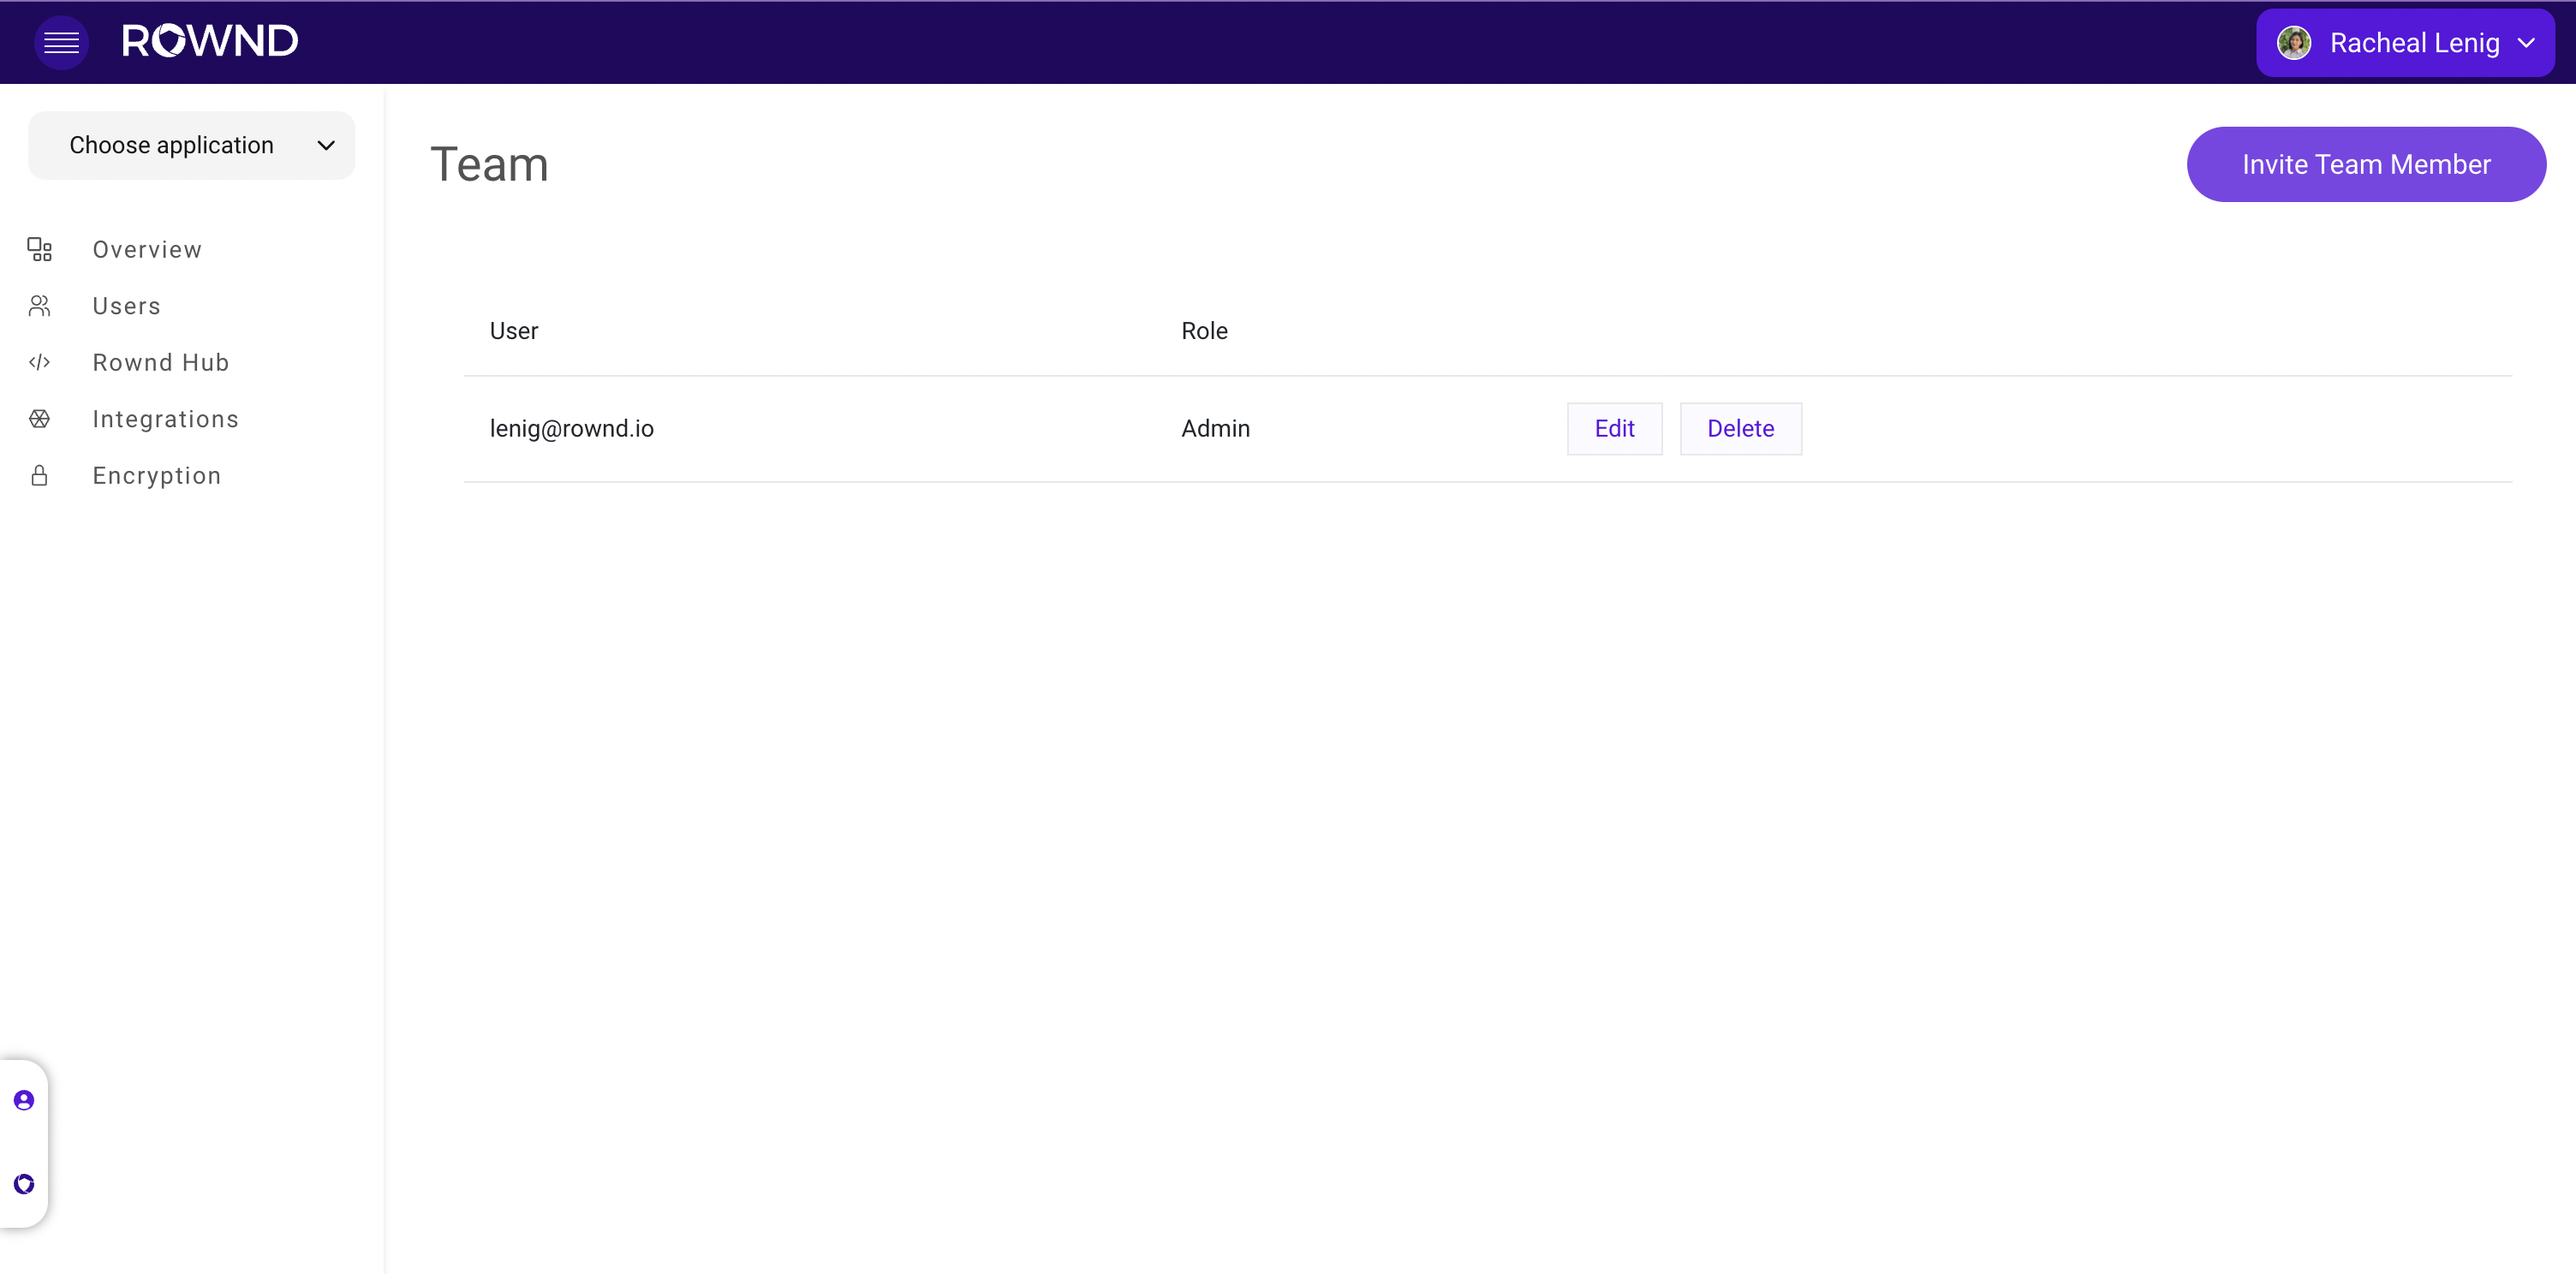
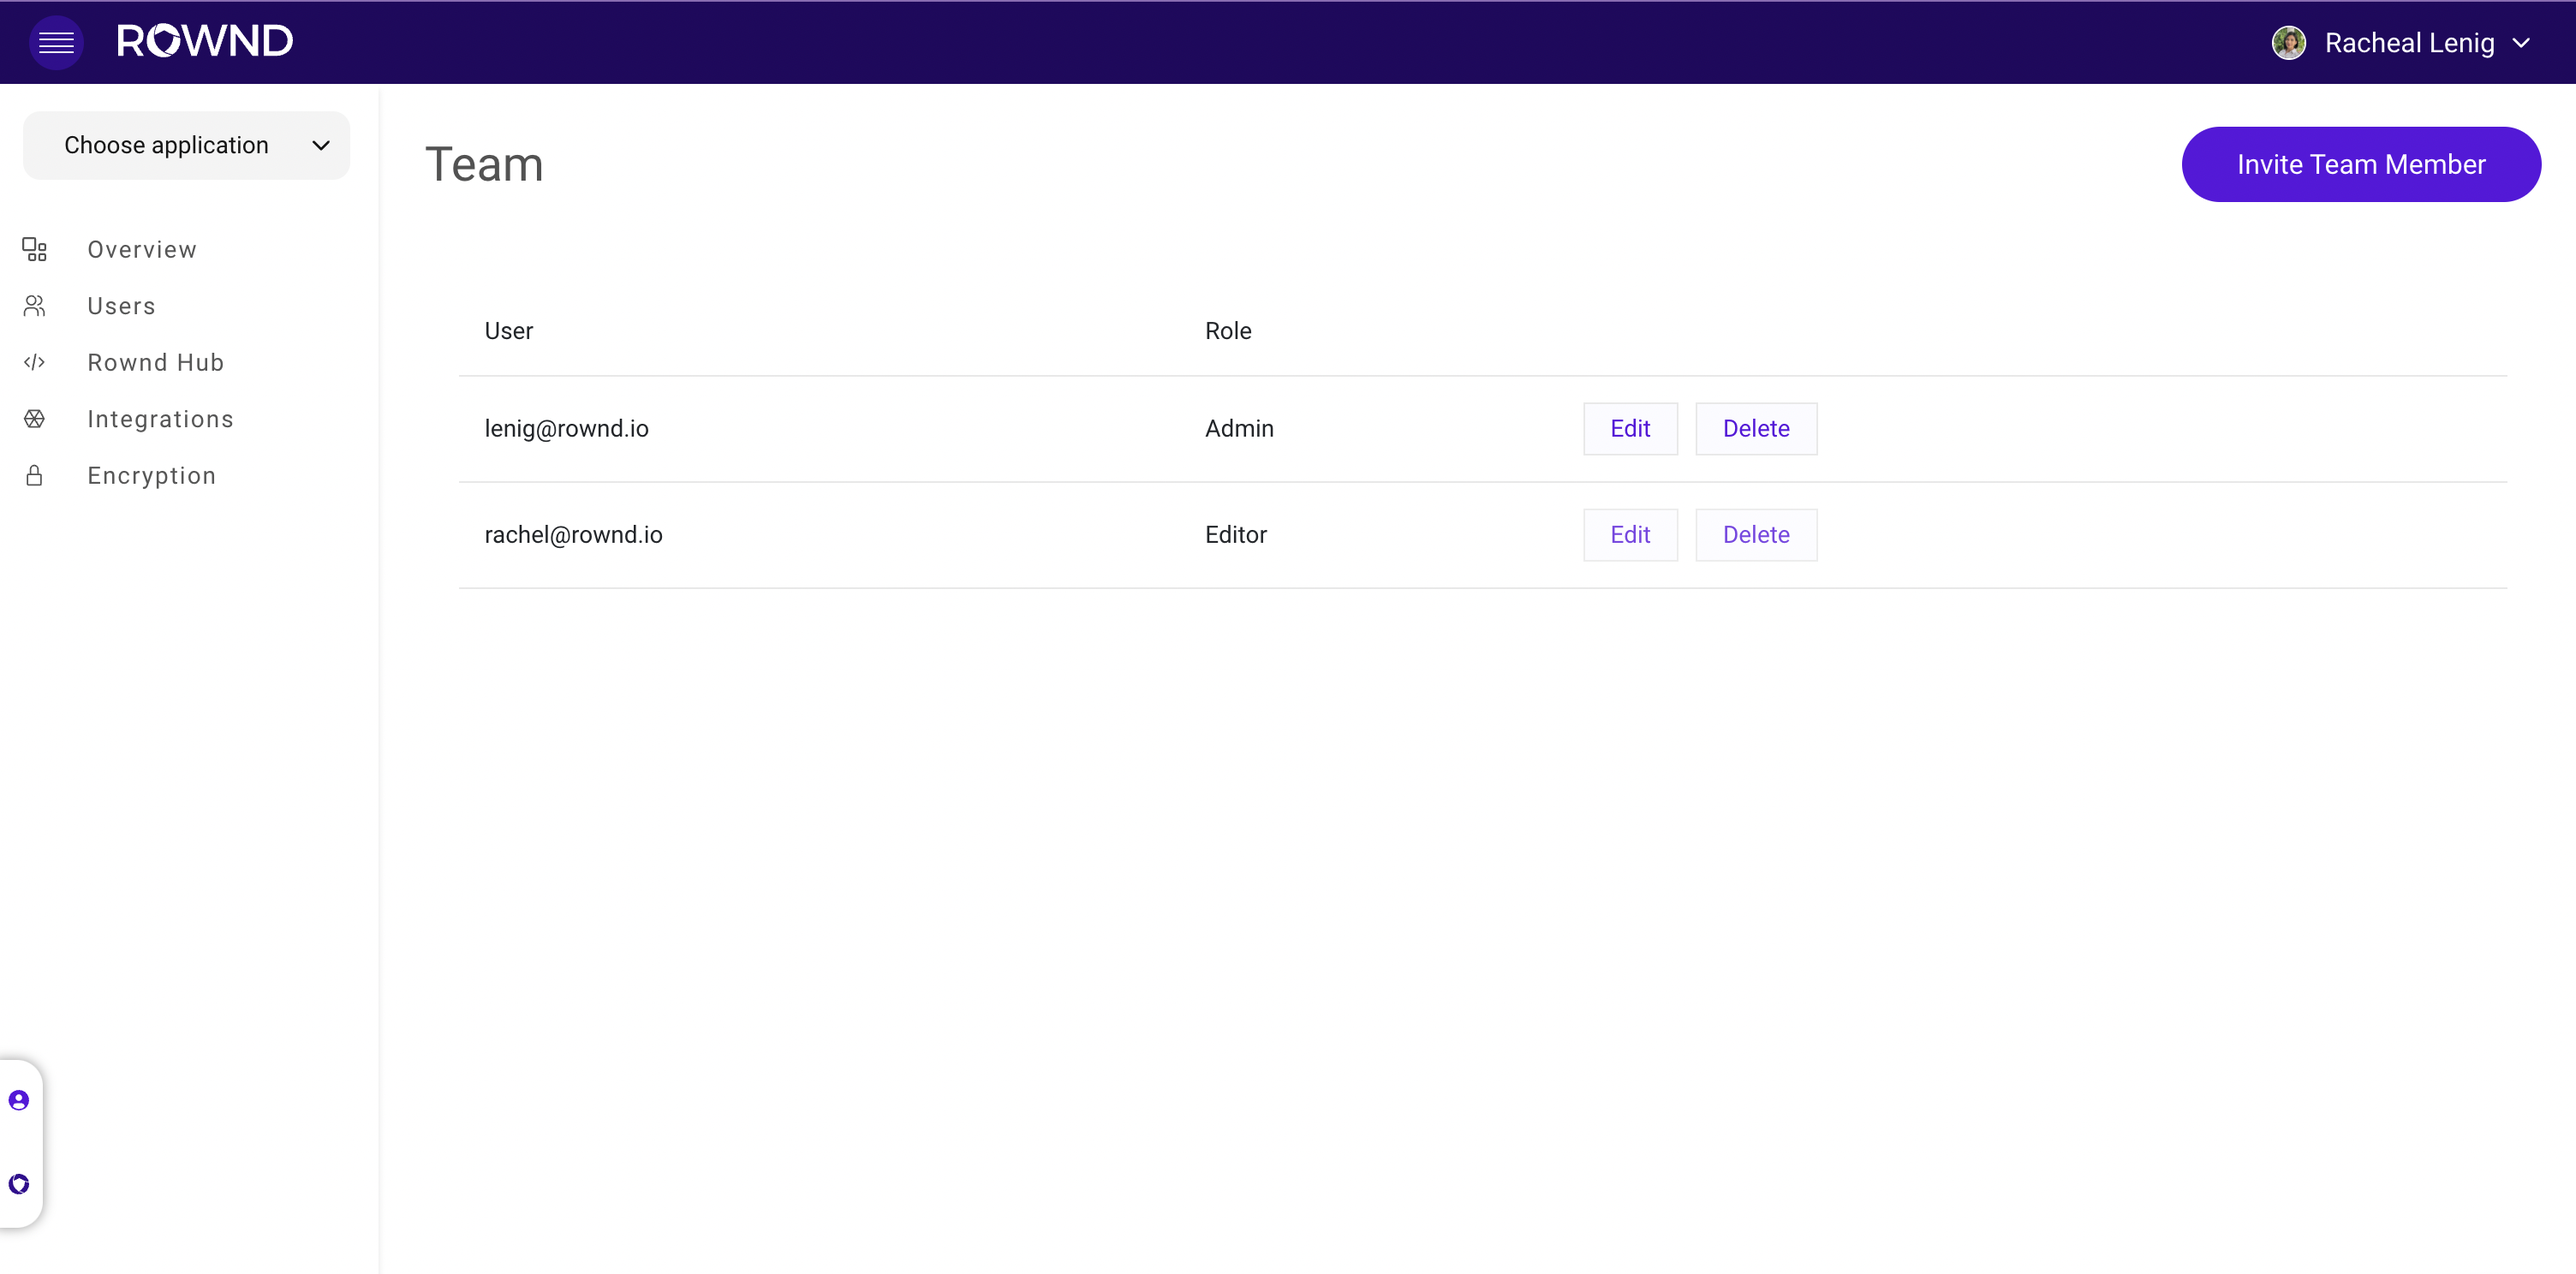
GitBook: [#38] Added "Create app key" and a section called "getting started"

diff --git a/guides/configuration/app-credentials.md b/guides/configuration/app-credentials.md
@@ -1,0 +1,45 @@
+---
+description: Create a new app key for your snippet or SDK or to leverage the Rownd API.
+---
+
+# App credentials
+
+When your code interacts with Rownd through an SDK, Javascript code snippet, or directly to our REST API, you'll need a set of credentials to authenticate your access to the Rownd platform. At Rownd, we call these "app keys" and "app secrets." Every application creates a default app key, but you can create as many additional keys as you want.
+
+The app key is a _publishable_ value, meaning it isn't intended to be private. You'll use an app key in all of your user-facing code, such as React or Vue apps, websites, mobile apps, etc.
+
+Each app key has an associated app secret that will be visible to you only once. App secrets are _private_ values, meaning you should limit the number of people who have access to them. You should also use care to ensure they are not included in publicly visible configuration files, mobile app binaries, website deployments, etc. They should exist only within your backend server environments.
+
+You can revoke an app key and its associated secret at any time through the Rownd dashboard. Be careful, though! Revoking a key that's still in use will likely result in downtime for your app. Ensure you generate new app keys and update your deployments with them before revoking existing keys.
+
+#### What's the difference?
+
+**App keys** help identify your application, enable the retrieval of certain application metadata, and initiate authentication from web or mobile.
+
+**App secrets** authenticate machine-to-machine communication with Rownd to retrieve and update any user profile, generate sign-in (magic) links for any user, and support other more sensitive/restricted functions.
+
+### Working with app keys
+
+From the Rownd dashboard, select the application for which you want to generate an app key, then select **Overview** from the side nav and click on **App keys** from the sub nav.
+
+![App keys are located in the overview section](<../../.gitbook/assets/image (7).png>)
+
+### Creating a new app key
+
+Click on the "Add app key" button on the right side of the screen. A new app key and secret are generated, then the **Edit app key** dialog is displayed, which contains the name of the app key, the key itself, and its associated secret.
+
+![The edit app key dialog](../../.gitbook/assets/image.png)
+
+{% hint style="warning" %}
+Be sure to copy and store the app secret in a safe location, since it will be shown only once! Opening the "edit app key" dialog again will show a masked version of the secret.
+{% endhint %}
+
+You can rename the app key to something that makes sense to you, then press **update** to save it.
+
+### Updating and deleting/revoking app keys
+
+If you want to delete or edit your app key, click on the three dots beneath the **action** column on the right side of the app keys table.
+
+![The app keys table showing edit and delete options](<../../.gitbook/assets/image (14).png>)
+
+From the resulting menu, select **edit** to modify the name of the key (the key and secrets are immutable). Select **delete** to permanently revoke the key. It will no longer work.

diff --git a/guides/administration/teams.md b/guides/administration/teams.md
@@ -8,11 +8,11 @@ description: Give team members access to co-manage aspects of your Rownd account
 
 First, sign into your Rownd account, click on the dropdown menu on the top right and select **Manage team**.
 
-![](<../../.gitbook/assets/image (17).png>)
+![](<../../.gitbook/assets/image (20).png>)
 
 On the **Team** page, click I**nvite team member**.&#x20;
 
-![](<../../.gitbook/assets/image (6).png>)
+![](<../../.gitbook/assets/image (11).png>)
 
 Enter the new team member's **email** **address** and choose the **level of access** to grant. There are three different **permission** levels:
 
@@ -20,36 +20,36 @@ Enter the new team member's **email** **address** and choose the **level of acce
 * **Admin:** Full account control over apps, team members, billing, etc.
 * **View-only:** Can view most aspects of the platform but cannot make any changes.
 
-![](<../../.gitbook/assets/image (8).png>)
+![](<../../.gitbook/assets/image (15).png>)
 
 Click **Save** to send the invitation. Your team member will receive an email containing a link that will automatically sign them into Rownd and prompt them to accept or decline the invitation to join your account.
 
-![](<../../.gitbook/assets/image (4).png>)
+![](<../../.gitbook/assets/image (25).png>)
 
 Once the invitation is sent, the new team member will show as **pending** until they've accepted the invitation.&#x20;
 
-![](<../../.gitbook/assets/image (16).png>)
+![](<../../.gitbook/assets/image (28).png>)
 
 Once they've accepted the invitation, the pending status will be removed.
 
-![](<../../.gitbook/assets/image (9).png>)
+![](<../../.gitbook/assets/image (1).png>)
 
 ### Editing a team member's access
 
 Click **Edit** next to the team member whose access you want to modify.
 
-![](<../../.gitbook/assets/image (5).png>)
+![](<../../.gitbook/assets/image (19).png>)
 
 Choose an updated **permission** level for the team member. Then click **save** to update.
 
-![](<../../.gitbook/assets/image (18).png>)
+![](<../../.gitbook/assets/image (2).png>)
 
 ### Removing a team member
 
 Click **Delete** next to the team member who you want to remove
 
-![](<../../.gitbook/assets/image (11).png>)
+![](<../../.gitbook/assets/image (24).png>)
 
 On the resulting confirmation dialog, click **Delete** to confirm the action. The team member will be removed from your account.
 
-![](<../../.gitbook/assets/image (2).png>)
+![](<../../.gitbook/assets/image (13).png>)

diff --git a/sdk-reference/web/wordpress-woocommerce.md b/sdk-reference/web/wordpress-woocommerce.md
@@ -24,7 +24,7 @@ Once you install this plugin, drop your app key and secret into our settings and
 1. Open your WordPress site's admin dashboard. This is usually something like `https://mycompany.com/wp-admin`.
 2. Navigate to **Plugins > Add new.**
 3. In the text field labeled "Search plugins," type **Rownd** and wait a moment for the search to load the results.\
-   <img src="../../.gitbook/assets/image (1).png" alt="" data-size="original">
+   <img src="../../.gitbook/assets/image (1) (1).png" alt="" data-size="original">
 
 #### Manual install
 
@@ -32,4 +32,4 @@ Once you install this plugin, drop your app key and secret into our settings and
 2. Click **Download** to grab the latest plugin `.zip` file.
 3. Extract the contents of the file into a folder called `rownd-accounts-and-authentication` within your `wp-content/plugins` folder. The naming here is important!
 4. Open your site's WordPress Admin dashboard, navigate to the plugin list, and click the **Activate** link in the row entitled "Rownd Accounts and Authentication."\
-   <img src="../../.gitbook/assets/image (23).png" alt="" data-size="original">\
+   <img src="../../.gitbook/assets/image (26).png" alt="" data-size="original">\

diff --git a/SUMMARY.md b/SUMMARY.md
@@ -6,9 +6,10 @@
 
 * [🚀 Getting started](guides/getting-started.md)
 * [🎛 Configuration](guides/configuration/README.md)
-  * [User profiles](guides/configuration/user-profiles/README.md)
-    * [Add data types](guides/configuration/user-profiles/add-data-types.md)
-    * [Edit data types](guides/configuration/user-profiles/edit-data-types.md)
+  * [App credentials](guides/configuration/app-credentials.md)
+  * [User profiles](guides/configuration/user-profile-structure/README.md)
+    * [Add data types](guides/configuration/user-profile-structure/add-data-types.md)
+    * [Edit data types](guides/configuration/user-profile-structure/edit-data-types.md)
 * [🏛 Administration](guides/administration/README.md)
   * [Teams](guides/administration/teams.md)
 * [🔌 Integrations](guides/integrations/README.md)

diff --git a/guides/configuration/user-profile-structure/README.md b/guides/configuration/user-profile-structure/README.md
@@ -2,7 +2,7 @@
 description: Build a user's profile with selected data types in the platform
 ---
 
-# User profile structure
+# User profiles
 
 Rownd collects and stores user profile data in its secure backend. Since every application is different, the data type editor provides a mechanism to define which information you need.
 
